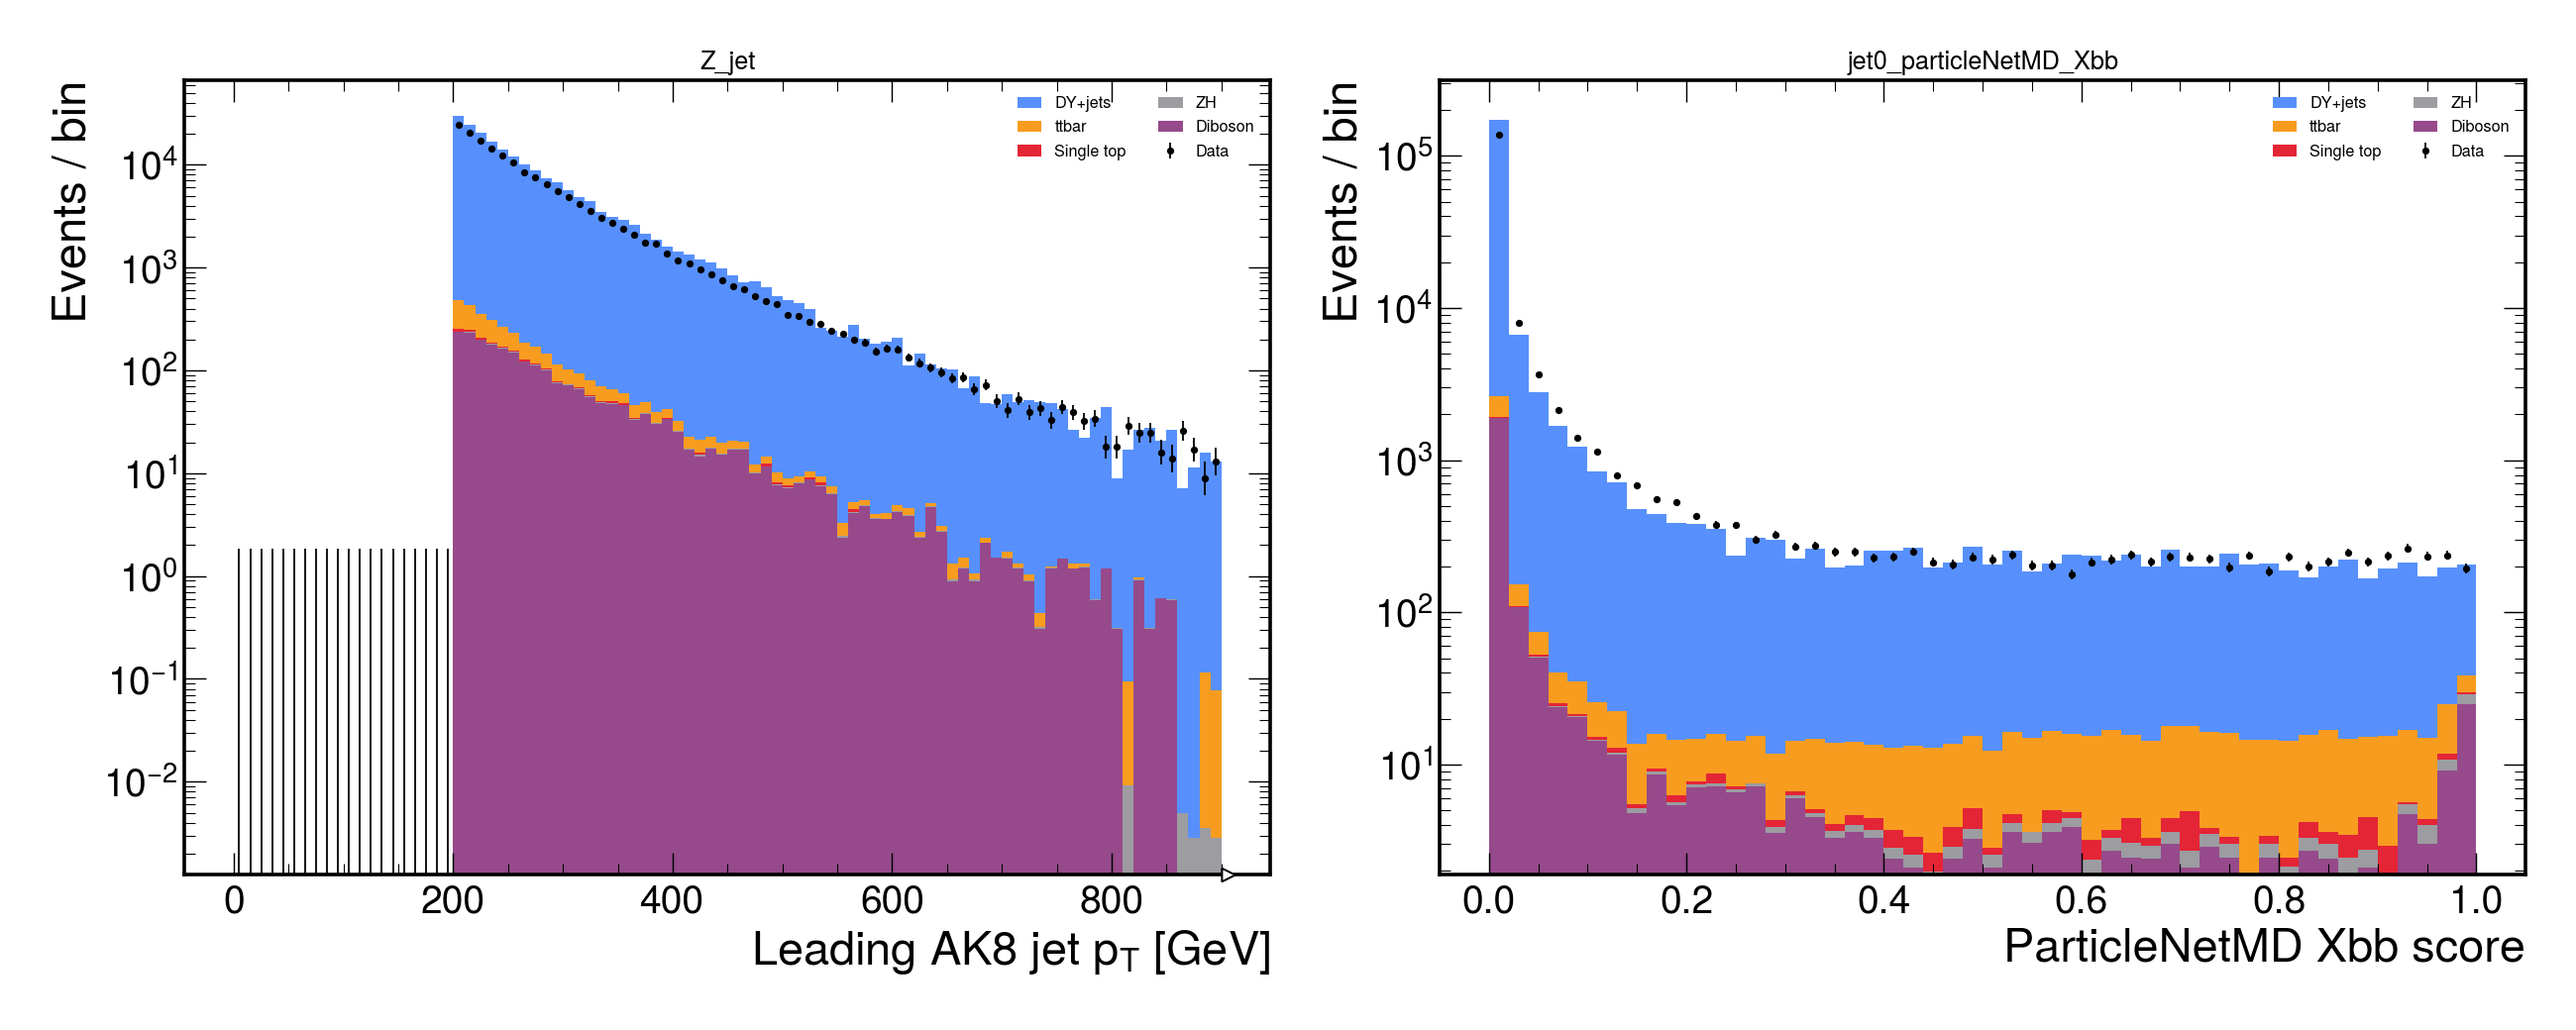
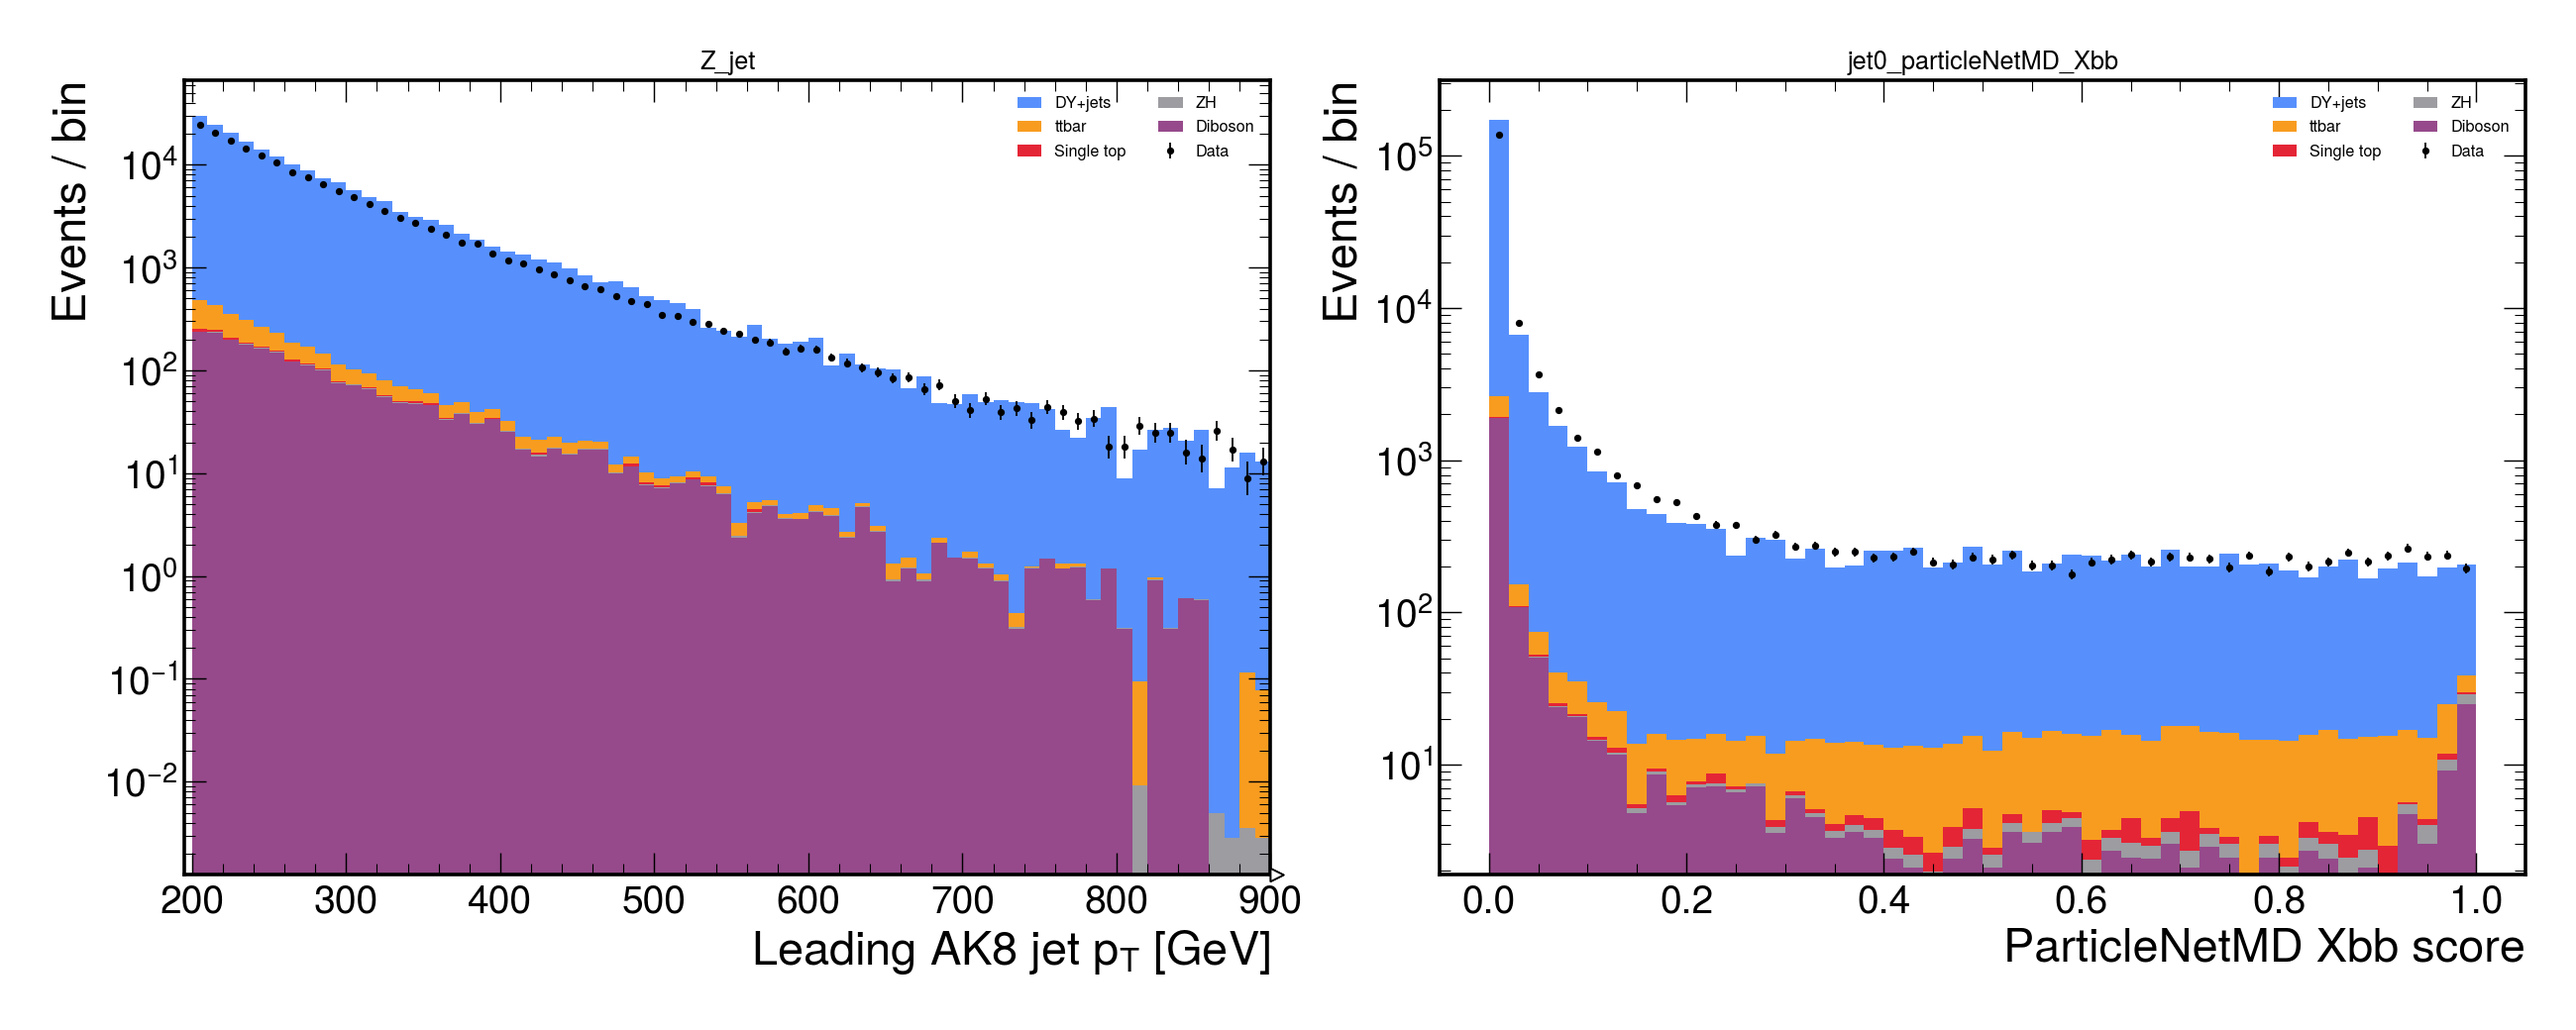
Crop plot x-axis ranges to actual populated bins, no more blank padding
Several histogram axes are defined wider than the region the selection
actually populates (e.g. mass axis 60-120 GeV but Zee/Zmm mass window cuts
to 71-111; AK8 jet pT axis starting at 0 despite the pT>200 GeV cut). On a
log-scale stack this showed up as thin hatched vertical lines for the
zero-content bins. Added per-histogram xlim (measured directly against the
merged .coffea output, summed across all 16 datasets to avoid clipping any
sample's real tail) to plot_full_overview.py's PLOTS list and as a new
xlim kwarg on plot_stack_sample.py's make_plot(). No change to the
underlying histogram binning/data, purely a display-range fix.

Changed region(s): [[0.0623, 0.1231, 0.4985, 0.8923]]

diff --git a/plot_full_overview.py b/plot_full_overview.py
@@ -48,23 +48,26 @@ DATA_SAMPLES = ["EGamma_Run2018", "SingleMuon_Run2018"]
 COLORS = {"DY+jets": "#5790fc", "ttbar": "#f89c20", "Single top": "#e42536", "Diboson": "#964a8b", "ZH": "#9c9ca1"}
 ORDER = ["Diboson", "ZH", "Single top", "ttbar", "DY+jets"]
 
-# (histogram name, extra axis selections, axes to sum over, title, log-scale y-axis)
+# (histogram name, extra axis selections, axes to sum over, title, log-scale y-axis, xlim)
+# xlim values are the actual populated range summed across all 16 datasets (checked directly
+# against the merged .coffea output) -- crops the padding of zero-content bins left over from
+# each histogram's wider default axis definition, without touching the underlying binning/data.
 PLOTS = [
-    ("cmp_mass_zcand", {"channel": "Zee"}, ["region"], "Zee candidate mass", True),
-    ("cmp_mass_zcand", {"channel": "Zmm"}, ["region"], "Zmm candidate mass", True),
-    ("jet0_msoftdrop", {}, ["flav"], "Leading AK8 jet softdrop mass", True),
-    ("jet0_pt", {}, ["flav"], "Leading AK8 jet pT", True),
-    ("cmp_pt_zcand", {}, ["region", "channel"], "Z candidate pT", True),
-    ("cmp_pt_lep0", {}, ["region", "channel"], "Leading lepton pT", True),
-    ("cmp_pt_lep1", {}, ["region", "channel"], "Subleading lepton pT", True),
-    ("cmp_pt_sub0", {}, ["region", "channel"], "Leading subjet pT", True),
-    ("cmp_pt_sub1", {}, ["region", "channel"], "Subleading subjet pT", True),
-    ("jet0_tau21", {}, ["flav"], "tau21 = tau2/tau1", True),
-    ("jet0_tau32", {}, ["flav"], "tau32 = tau3/tau2", True),
-    ("jet0_n2b1", {}, ["flav"], "N2 (b1) subjettiness variable", True),
-    ("cmp_dr_subjets", {}, ["region", "channel"], "Delta R between subjets", True),
-    ("jet0_eta", {}, ["flav"], "Leading AK8 jet eta", True),
-    ("njet", {}, [], "N selected AK8 jets", True),
+    ("cmp_mass_zcand", {"channel": "Zee"}, ["region"], "Zee candidate mass", True, (70, 110)),
+    ("cmp_mass_zcand", {"channel": "Zmm"}, ["region"], "Zmm candidate mass", True, (70, 110)),
+    ("jet0_msoftdrop", {}, ["flav"], "Leading AK8 jet softdrop mass", True, None),
+    ("jet0_pt", {}, ["flav"], "Leading AK8 jet pT", True, None),
+    ("cmp_pt_zcand", {}, ["region", "channel"], "Z candidate pT", True, None),
+    ("cmp_pt_lep0", {}, ["region", "channel"], "Leading lepton pT", True, (25, 700)),
+    ("cmp_pt_lep1", {}, ["region", "channel"], "Subleading lepton pT", True, (20, 350)),
+    ("cmp_pt_sub0", {}, ["region", "channel"], "Leading subjet pT", True, (45, 900)),
+    ("cmp_pt_sub1", {}, ["region", "channel"], "Subleading subjet pT", True, (5, 350)),
+    ("jet0_tau21", {}, ["flav"], "tau21 = tau2/tau1", True, None),
+    ("jet0_tau32", {}, ["flav"], "tau32 = tau3/tau2", True, None),
+    ("jet0_n2b1", {}, ["flav"], "N2 (b1) subjettiness variable", True, (0, 0.45)),
+    ("cmp_dr_subjets", {}, ["region", "channel"], "Delta R between subjets", True, (0, 1.1)),
+    ("jet0_eta", {}, ["flav"], "Leading AK8 jet eta", True, None),
+    ("njet", {}, [], "N selected AK8 jets", True, (0.5, 6.5)),
 ]
 
 
@@ -109,7 +112,7 @@ def scaled_group_hists(histname, sel, sumaxes):
 fig, axes = plt.subplots(3, 5, figsize=(30, 18))
 axes = axes.flatten()
 
-for ax, (name, sel, sumaxes, title, logy) in zip(axes, PLOTS):
+for ax, (name, sel, sumaxes, title, logy, xlim) in zip(axes, PLOTS):
     group_hists, data_hist = scaled_group_hists(name, sel, sumaxes)
     hep.histplot(
         [group_hists[g] for g in ORDER],
@@ -122,6 +125,8 @@ for ax, (name, sel, sumaxes, title, logy) in zip(axes, PLOTS):
     hep.histplot(data_hist, histtype="errorbar", color="black", label="Data", ax=ax)
     if logy:
         ax.set_yscale("log")
+    if xlim:
+        ax.set_xlim(*xlim)
     ax.set_title(title, fontsize=14)
 
 axes[0].legend(fontsize=8, ncol=2)

diff --git a/plot_stack_sample.py b/plot_stack_sample.py
@@ -84,7 +84,7 @@ def scaled_hist(histname, region=None, channel=None):
     return group_hists, data_total
 
 
-def make_plot(histname, region, xlabel, ax, channel=None, logy=True):
+def make_plot(histname, region, xlabel, ax, channel=None, logy=True, xlim=None):
     group_hists, data_hist = scaled_hist(histname, region, channel)
     order = ["Diboson", "ZH", "Single top", "ttbar", "DY+jets"]
     hep.histplot(
@@ -98,6 +98,8 @@ def make_plot(histname, region, xlabel, ax, channel=None, logy=True):
     hep.histplot(data_hist, histtype="errorbar", color="black", label="Data", ax=ax)
     if logy:
         ax.set_yscale("log")
+    if xlim:
+        ax.set_xlim(*xlim)
     ax.set_xlabel(xlabel)
     ax.set_ylabel(f"Events / bin")
     title = region or histname
@@ -108,8 +110,8 @@ def make_plot(histname, region, xlabel, ax, channel=None, logy=True):
 
 
 fig, axes = plt.subplots(1, 2, figsize=(20, 8))
-make_plot("cmp_mass_zcand", "Z_jet", r"$m_{\ell\ell}$ [GeV]", axes[0])
-make_plot("cmp_mass_zcand", "Z_bjet", r"$m_{\ell\ell}$ [GeV]", axes[1])
+make_plot("cmp_mass_zcand", "Z_jet", r"$m_{\ell\ell}$ [GeV]", axes[0], xlim=(70, 110))
+make_plot("cmp_mass_zcand", "Z_bjet", r"$m_{\ell\ell}$ [GeV]", axes[1], xlim=(70, 110))
 hep.cms.label("Preliminary", data=True, lumi=LUMI_PB / 1000.0, year=2018, ax=axes[0])
 hep.cms.label("Preliminary", data=True, lumi=LUMI_PB / 1000.0, year=2018, ax=axes[1])
 plt.tight_layout()
@@ -119,7 +121,7 @@ plt.savefig(outpath, dpi=130)
 print("saved", outpath)
 
 fig2, axes2 = plt.subplots(1, 2, figsize=(20, 8))
-make_plot("cmp_pt_fj", "Z_jet", r"Leading AK8 jet $p_{T}$ [GeV]", axes2[0], logy=True)
+make_plot("cmp_pt_fj", "Z_jet", r"Leading AK8 jet $p_{T}$ [GeV]", axes2[0], logy=True, xlim=(195, 900))
 make_plot("jet0_particleNetMD_Xbb", None, "ParticleNetMD Xbb score", axes2[1])
 plt.tight_layout()
 outpath2 = f"{REPO}/qcd_sf_2018_sample_stack2.png"
@@ -128,8 +130,8 @@ print("saved", outpath2)
 
 # Zee vs Zmm split -- matches the old workflow keeping these as separate plots
 fig3, axes3 = plt.subplots(1, 2, figsize=(20, 8))
-make_plot("cmp_mass_zcand", "Z_jet", r"$m_{\ell\ell}$ [GeV]", axes3[0], channel="Zee")
-make_plot("cmp_mass_zcand", "Z_jet", r"$m_{\ell\ell}$ [GeV]", axes3[1], channel="Zmm")
+make_plot("cmp_mass_zcand", "Z_jet", r"$m_{\ell\ell}$ [GeV]", axes3[0], channel="Zee", xlim=(70, 110))
+make_plot("cmp_mass_zcand", "Z_jet", r"$m_{\ell\ell}$ [GeV]", axes3[1], channel="Zmm", xlim=(70, 110))
 plt.tight_layout()
 outpath3 = f"{REPO}/qcd_sf_2018_sample_stack_by_channel.png"
 plt.savefig(outpath3, dpi=130)
